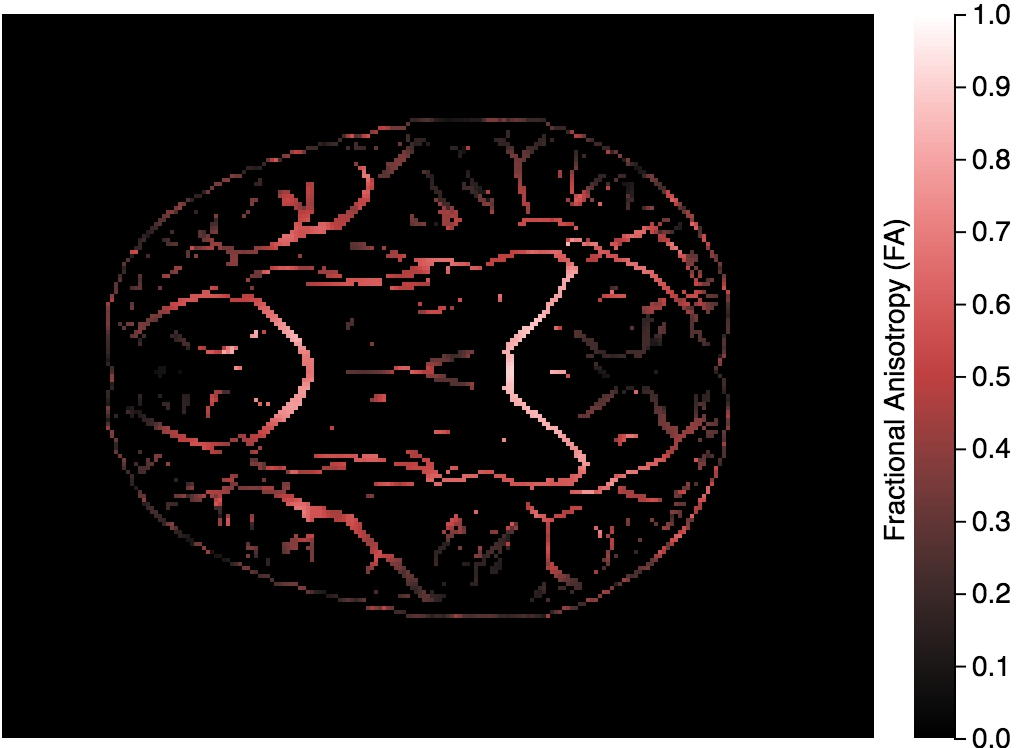
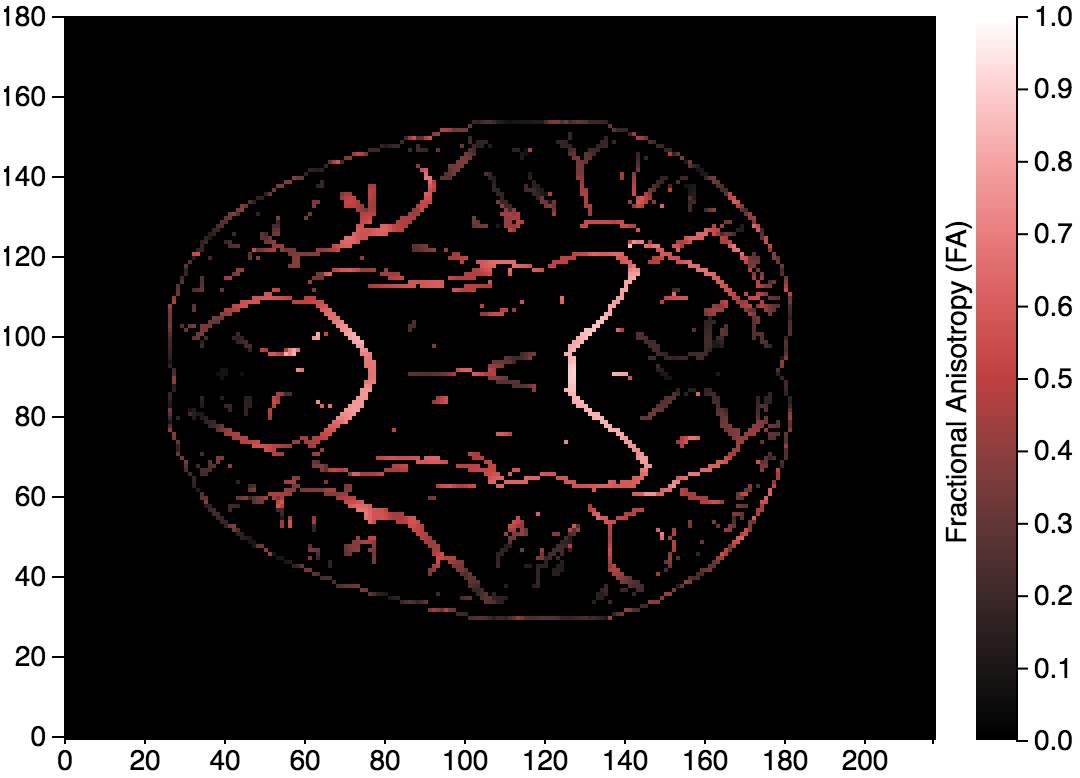
Fix scale

Changed region(s): [[0.0938, 0.1537, 0.75, 0.8302], [0.0, 0.0, 1.0, 1.0]]

diff --git a/hw1/d3_p3.html b/hw1/d3_p3.html
@@ -28,14 +28,6 @@ text {
     //We need to render the diffusion tensor image for a head.
     //To learn the implementation of an image, I referred to:
     //http://bl.ocks.org/e-/5244131
-    //
-    //The data type of each pixel is ratio. By observing the basic
-    //image that I tuned with. This image is of low frequency.
-    // Therefore It's better to use satuation-varying color to illustrate
-    // the information in the image based on:
-    //http://www.research.ibm.com/people/l/lloydt/color/color.HTM
-    //blue->yellow
-    //(0,0,0,) should be set to black otherwise, it will distract our eye.
     //========================================================
 
     //==========Reading tab separated data====================
@@ -200,19 +192,21 @@ text {
         //log the pixels
         //render the canvas
         //Add an svg in the body with the size of (w,h)
-        var svg = d3.select('body').append('svg').attr('width',width*coef).attr('height',height*coef+15);
+        var svg = d3.select('body').append('svg').attr('width',width*coef+30).attr('height',height*coef+30);
                 //margin = 30,
                 //width = width*coef,
                 //height = height*coef;
 
-        //set background to black
-        svg.append('rect').attr('width','100%').attr('height',height*coef+3*coef).attr('fill','black');
 
         console.log('done');
         //add an rgb figure into the svg file
-        rgb_node=svg.append('g').attr('class','nodes all');
+        rgb_node=svg.append('g').attr('class','nodes all').attr('transform','translate(30,0)');
 
-        bar_svg=d3.select('body').append('svg').attr('width',40*coef).attr('height',height*coef+15);
+        //set background to black
+        rgb_node.append('rect').attr('width','100%').attr('height',height*coef+3*coef).attr('fill','black');
+
+
+        bar_svg=d3.select('body').append('svg').attr('width',40*coef).attr('height',height*coef+15).attr('height',height*coef+30);
                 //margin = 30,
                 //width = 10*coef,
                 //height = height*coef;
@@ -274,6 +268,24 @@ text {
                 .attr('y',15)
                 .attr('transform','rotate(-90)')
                 .text('Fractional Anisotropy (FA)');
+
+        //append a scale to the image
+        var lsx=d3.scaleLinear().domain([0, width-1]).range([0,(width-1)*coef]);
+        var xAxis=d3.axisBottom(lsx);
+
+        var hsx=d3.scaleLinear().domain([0,height-1]).range([(height-1)*coef,0]);
+        var yAxis=d3.axisLeft(hsx);
+
+        rgb_node.append('g')
+                .attr('class','x axis')
+                .attr('transform','translate(0,'+((height+1)*coef)+')')
+                .call(xAxis);
+
+        rgb_node.append('g')
+                .attr('class','y axis')
+                .attr('transform','translate(0,0)')
+                .call(yAxis)
+                .attr('transform','translate(0,'+coef*3+')');
     });
 
     //var ls=d3.scaleLinear().domain([0,100]).range([0, 100]);

diff --git a/hw1/d3_p2.html b/hw1/d3_p2.html
@@ -28,14 +28,6 @@ text {
     //We need to render the diffusion tensor image for a head.
     //To learn the implementation of an image, I referred to:
     //http://bl.ocks.org/e-/5244131
-    //
-    //The data type of each pixel is ratio. By observing the basic
-    //image that I tuned with. This image is of low frequency.
-    // Therefore It's better to use satuation-varying color to illustrate
-    // the information in the image based on:
-    //http://www.research.ibm.com/people/l/lloydt/color/color.HTM
-    //blue->yellow
-    //(0,0,0,) should be set to black otherwise, it will distract our eye.
     //========================================================
 
     //==========Reading tab separated data====================
@@ -199,19 +191,19 @@ text {
         //log the pixels
         //render the canvas
         //Add an svg in the body with the size of (w,h)
-        var svg = d3.select('body').append('svg').attr('width',width*coef).attr('height',height*coef+15);
+        var svg = d3.select('body').append('svg').attr('width',width*coef+30).attr('height',height*coef+30);
                 //margin = 30,
                 //width = width*coef,
                 //height = height*coef;
 
-        //set background to black
-        svg.append('rect').attr('width','100%').attr('height',height*coef+3*coef).attr('fill','black');
 
         console.log('done');
         //add an rgb figure into the svg file
-        rgb_node=svg.append('g').attr('class','nodes all');
+        rgb_node=svg.append('g').attr('class','nodes all').attr('transform','translate(30,0)');
+        //set background to black
+        rgb_node.append('rect').attr('width','100%').attr('height',height*coef+3*coef).attr('fill','black');
 
-        bar_svg=d3.select('body').append('svg').attr('width',40*coef).attr('height',height*coef+15);
+        bar_svg=d3.select('body').append('svg').attr('width',40*coef).attr('height',height*coef+15).attr('height',height*coef+30);
                 //margin = 30,
                 //width = 10*coef,
                 //height = height*coef;
@@ -270,6 +262,25 @@ text {
                 .attr('y',15)
                 .attr('transform','rotate(-90)')
                 .text('Fractional Anisotropy (FA)');
+
+        //append a scale to the image
+        var lsx=d3.scaleLinear().domain([0, width-1]).range([0,(width-1)*coef]);
+        var xAxis=d3.axisBottom(lsx);
+
+        var hsx=d3.scaleLinear().domain([0,height-1]).range([(height-1)*coef,0]);
+        var yAxis=d3.axisLeft(hsx);
+
+        rgb_node.append('g')
+                .attr('class','x axis')
+                .attr('transform','translate(0,'+((height+1)*coef)+')')
+                .call(xAxis);
+
+        rgb_node.append('g')
+                .attr('class','y axis')
+                .attr('transform','translate(0,0)')
+                .call(yAxis)
+                .attr('transform','translate(0,'+coef*3+')');
+
     });
 
     //var ls=d3.scaleLinear().domain([0,100]).range([0, 100]);

diff --git a/hw1/d3_p4.html b/hw1/d3_p4.html
@@ -28,14 +28,6 @@ text {
     //We need to render the diffusion tensor image for a head.
     //To learn the implementation of an image, I referred to:
     //http://bl.ocks.org/e-/5244131
-    //
-    //The data type of each pixel is ratio. By observing the basic
-    //image that I tuned with. This image is of low frequency.
-    // Therefore It's better to use satuation-varying color to illustrate
-    // the information in the image based on:
-    //http://www.research.ibm.com/people/l/lloydt/color/color.HTM
-    //blue->yellow
-    //(0,0,0,) should be set to black otherwise, it will distract our eye.
     //========================================================
 
     //==========Reading tab separated data====================
@@ -201,19 +193,20 @@ text {
         //log the pixels
         //render the canvas
         //Add an svg in the body with the size of (w,h)
-        var svg = d3.select('body').append('svg').attr('width',width*coef).attr('height',height*coef+15);
+        var svg = d3.select('body').append('svg').attr('width',width*coef+30).attr('height',height*coef+30);
                 //margin = 30,
                 //width = width*coef,
                 //height = height*coef;
 
-        //set background to black
-        svg.append('rect').attr('width','100%').attr('height',height*coef+3*coef).attr('fill','black');
 
         console.log('done');
         //add an rgb figure into the svg file
-        rgb_node=svg.append('g').attr('class','nodes all');
+        rgb_node=svg.append('g').attr('class','nodes all').attr('transform','translate(30,0)');
 
-        bar_svg=d3.select('body').append('svg').attr('width',40*coef).attr('height',height*coef+15);
+        //set background to black
+        rgb_node.append('rect').attr('width','100%').attr('height',height*coef+3*coef).attr('fill','black');
+
+        bar_svg=d3.select('body').append('svg').attr('width',40*coef).attr('height',height*coef+15).attr('height',height*coef+30);
                 //margin = 30,
                 //width = 10*coef,
                 //height = height*coef;
@@ -275,6 +268,24 @@ text {
                 .attr('y',15)
                 .attr('transform','rotate(-90)')
                 .text('Fractional Anisotropy (FA)');
+
+        //append a scale to the image
+        var lsx=d3.scaleLinear().domain([0, width-1]).range([0,(width-1)*coef]);
+        var xAxis=d3.axisBottom(lsx);
+
+        var hsx=d3.scaleLinear().domain([0,height-1]).range([(height-1)*coef,0]);
+        var yAxis=d3.axisLeft(hsx);
+
+        rgb_node.append('g')
+                .attr('class','x axis')
+                .attr('transform','translate(0,'+((height+1)*coef)+')')
+                .call(xAxis);
+
+        rgb_node.append('g')
+                .attr('class','y axis')
+                .attr('transform','translate(0,0)')
+                .call(yAxis)
+                .attr('transform','translate(0,'+coef*3+')');
     });
 
     //var ls=d3.scaleLinear().domain([0,100]).range([0, 100]);

diff --git a/hw1/d3_p1.html b/hw1/d3_p1.html
@@ -28,14 +28,6 @@ text {
     //We need to render the diffusion tensor image for a head.
     //To learn the implementation of an image, I referred to:
     //http://bl.ocks.org/e-/5244131
-    //
-    //The data type of each pixel is ratio. By observing the basic
-    //image that I tuned with. This image is of low frequency.
-    // Therefore It's better to use satuation-varying color to illustrate
-    // the information in the image based on:
-    //http://www.research.ibm.com/people/l/lloydt/color/color.HTM
-    //blue->yellow
-    //(0,0,0,) should be set to black otherwise, it will distract our eye.
     //========================================================
 
     //==========Reading tab separated data====================
@@ -199,15 +191,15 @@ text {
         //log the pixels
         //render the canvas
         //Add an svg in the body with the size of (w,h)
-        var svg = d3.select('body').append('svg').attr('width',width*coef).attr('height',height*coef+15);
+        var svg = d3.select('body').append('svg').attr('width',width*coef+30).attr('height',height*coef+30);
                 //margin = 30,
                 //width = width*coef,
                 //height = height*coef;
         console.log('done');
         //add an rgb figure into the svg file
-        rgb_node=svg.append('g').attr('class','nodes all');
+        rgb_node=svg.append('g').attr('class','nodes all').attr('transform','translate(30,0)');
 
-        bar_svg=d3.select('body').append('svg').attr('width',40*coef).attr('height',height*coef+15);
+        bar_svg=d3.select('body').append('svg').attr('width',40*coef+30).attr('height',height*coef+30);
                 //margin = 30,
                 //width = 10*coef,
                 //height = height*coef;
@@ -242,7 +234,7 @@ text {
         //adding axis
         console.log(height);
 
-        var ls=d3.scaleLinear().domain([1,0]).range([0,height*coef]);
+        var ls=d3.scaleLinear().domain([1,0]).range([0,(height*coef)]);
         var yAxis=d3.axisRight(ls);//.ticks(0.1);
 
         bar_svg.append('g')
@@ -257,6 +249,25 @@ text {
                 .attr('y',15)
                 .attr('transform','rotate(-90)')
                 .text('Fractional Anisotropy (FA)');
+
+        //append a scale to the image
+        var lsx=d3.scaleLinear().domain([0, width-1]).range([0,(width-1)*coef]);
+        var xAxis=d3.axisBottom(lsx);
+
+        var hsx=d3.scaleLinear().domain([0,height-1]).range([(height-1)*coef,0]);
+        var yAxis=d3.axisLeft(hsx);
+
+        rgb_node.append('g')
+                .attr('class','x axis')
+                .attr('transform','translate(0,'+((height+1)*coef)+')')
+                .call(xAxis);
+
+        rgb_node.append('g')
+                .attr('class','y axis')
+                .attr('transform','translate(0,0)')
+                .call(yAxis)
+                .attr('transform','translate(0,'+coef*3+')');
+
     });
 
     //var ls=d3.scaleLinear().domain([0,100]).range([0, 100]);

diff --git a/hw1/d3_p0.html b/hw1/d3_p0.html
@@ -28,14 +28,6 @@ text {
     //We need to render the diffusion tensor image for a head.
     //To learn the implementation of an image, I referred to:
     //http://bl.ocks.org/e-/5244131
-    //
-    //The data type of each pixel is ratio. By observing the basic
-    //image that I tuned with. This image is of low frequency.
-    // Therefore It's better to use satuation-varying color to illustrate
-    // the information in the image based on:
-    //http://www.research.ibm.com/people/l/lloydt/color/color.HTM
-    //blue->yellow
-    //(0,0,0,) should be set to black otherwise, it will distract our eye.
     //========================================================
 
     //==========Reading tab separated data====================
@@ -195,15 +187,15 @@ text {
         //log the pixels
         //render the canvas
         //Add an svg in the body with the size of (w,h)
-        var svg = d3.select('body').append('svg').attr('width',width*coef).attr('height',height*coef+15);
+        var svg = d3.select('body').append('svg').attr('width',width*coef+30).attr('height',height*coef+30);
                 //margin = 30,
                 //width = width*coef,
                 //height = height*coef;
         console.log('done');
         //add an rgb figure into the svg file
-        rgb_node=svg.append('g').attr('class','nodes all');
+        rgb_node=svg.append('g').attr('class','nodes all').attr('transform','translate(30,0)');
 
-        bar_svg=d3.select('body').append('svg').attr('width',40*coef).attr('height',height*coef+15);
+        bar_svg=d3.select('body').append('svg').attr('width',40*coef).attr('height',height*coef+15).attr('height',height*coef+30);
                 //margin = 30,
                 //width = 10*coef,
                 //height = height*coef;
@@ -253,6 +245,24 @@ text {
                 .attr('y',15)
                 .attr('transform','rotate(-90)')
                 .text('Fractional Anisotropy (FA)');
+
+        //append a scale to the image
+        var lsx=d3.scaleLinear().domain([0, width-1]).range([0,(width-1)*coef]);
+        var xAxis=d3.axisBottom(lsx);
+
+        var hsx=d3.scaleLinear().domain([0,height-1]).range([(height-1)*coef,0]);
+        var yAxis=d3.axisLeft(hsx);
+
+        rgb_node.append('g')
+                .attr('class','x axis')
+                .attr('transform','translate(0,'+((height+1)*coef)+')')
+                .call(xAxis);
+
+        rgb_node.append('g')
+                .attr('class','y axis')
+                .attr('transform','translate(0,0)')
+                .call(yAxis)
+                .attr('transform','translate(0,'+coef*3+')');
     });
 
     //var ls=d3.scaleLinear().domain([0,100]).range([0, 100]);

diff --git a/hw1/README.md b/hw1/README.md
@@ -92,6 +92,8 @@ Since the purpose of this task is to show the distribution instead of the bins. 
 
 In this homework, I use two tools (D3 and Matlab) to explore different design options and parameters, including `Color`, `Shape`, and `Size`. Among the figures I generated, I like **Figure 3(b)** the most because I like the color and it can very vividely show the specific range.
 
+Between the two tools, the hand-on experience told me that I like Matlab more than d3 because the low level implementation such as the legend and scale has already been implemented. And it also provides good functionality such as fitting a distribution. The only drawback is that the code can't be rendered on webpage while d3 provides the capability.
+
 [1]: https://en.wikipedia.org/wiki/Fractional_anisotropy  "Fractional Anisotropy on Wikipedia"
 [2]: http://lmt.projectsinknowledge.com/Activity/pdfs/2023_02/952.pdf "Mean Diffusivity and Fractional Anisotropy Histograms of Patients with Multiple Sclerosis"
 [3]: http://www.research.ibm.com/people/l/lloydt/color/color.HTM "Why Should Engineers and Scientists Be Worried About Color?"
